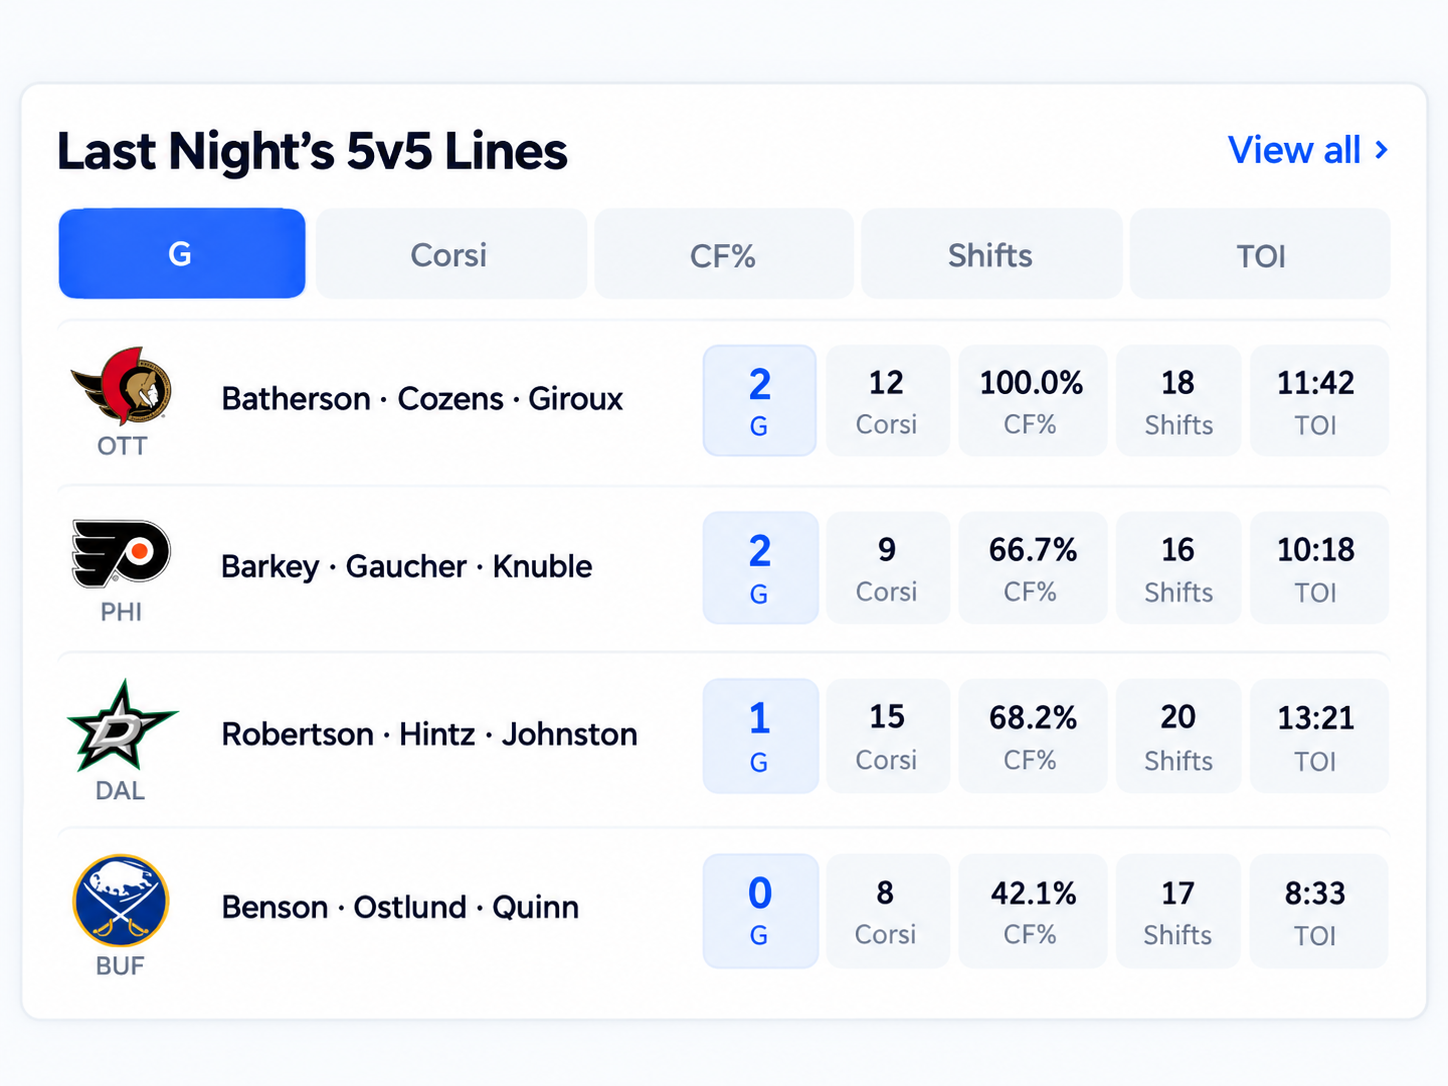
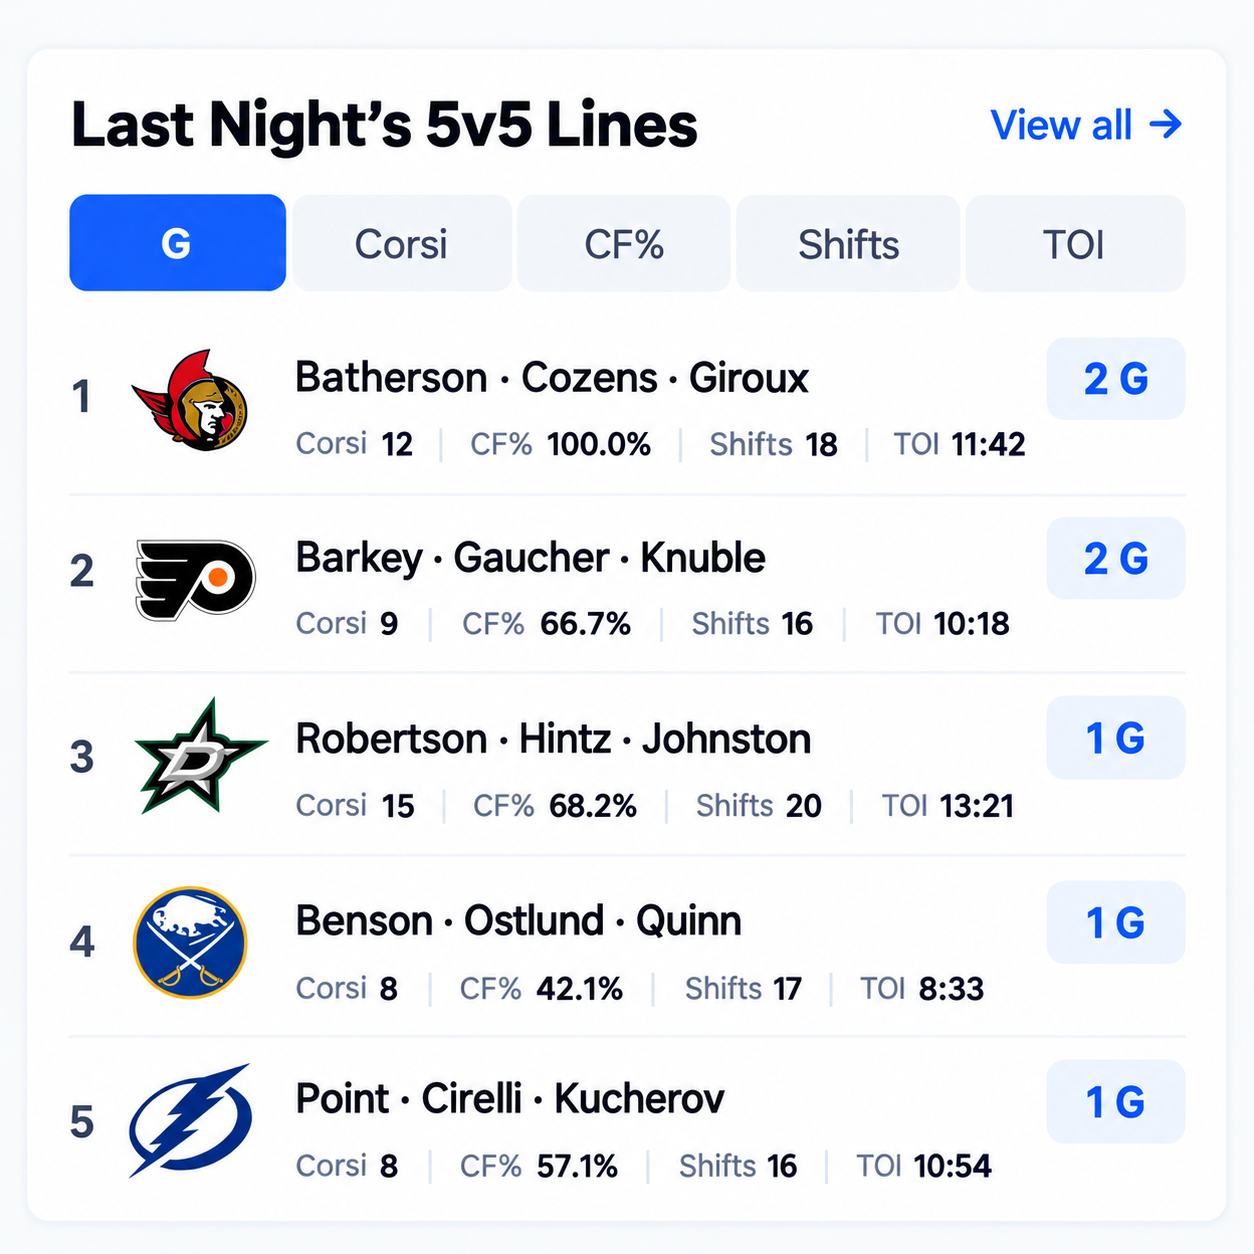
Refine Top Lines design, CF eligibility and player position ordering

diff --git a/resources/js/pages/Dashboard/Index.vue b/resources/js/pages/Dashboard/Index.vue
@@ -32,11 +32,14 @@ const lineTabs = [
     { key: 'toi_seconds', label: 'TOI', unit: 'Shared 5v5 time' },
 ];
 const lineUnit = computed(() => lineTabs.find(tab => tab.key === lineTab.value)?.unit);
+const lineLabel = computed(() => lineTabs.find(tab => tab.key === lineTab.value)?.label);
+const secondaryLineTabs = computed(() => lineTabs.filter(tab => tab.key !== lineTab.value));
 const lines = computed(() => [...(props.dashboard.line_combinations ?? [])]
     .filter(line => Number.isFinite(line[lineTab.value]))
+    .filter(line => lineTab.value !== 'cf_pct' || line.toi_seconds >= 300)
     .sort((a, b) => b[lineTab.value] - a[lineTab.value]
         || b.goal_diff - a.goal_diff || (b.cf_pct ?? -1) - (a.cf_pct ?? -1)
-        || b.toi_seconds - a.toi_seconds || a.unit_id - b.unit_id || a.game_id - b.game_id).slice(0, 4));
+        || b.toi_seconds - a.toi_seconds || a.unit_id - b.unit_id || a.game_id - b.game_id).slice(0, 5));
 const lineValue = (line, key) => !Number.isFinite(line[key]) ? '—'
     : key === 'toi_seconds' ? toi(line.toi_seconds)
         : key === 'cf_pct' ? `${decimal(line.cf_pct)}%`
@@ -255,23 +258,23 @@ function navigateTabs(event, group) {
                 </div>
             </DashboardSection>
 
-            <DashboardSection title="Last Night’s 5v5 Lines" :href="dashboard.links.line_combinations" class="[container-type:inline-size] xl:col-span-3">
+            <DashboardSection title="Last Night’s Top Lines" :href="dashboard.links.line_combinations" class="xl:col-span-3">
                 <div role="tablist" aria-label="5v5 line metric" class="mb-2 grid shrink-0 grid-cols-5 gap-1.5">
                     <button v-for="tab in lineTabs" :id="`line-tab-${tab.key}`" :key="tab.key" type="button" role="tab" :title="tab.unit" :tabindex="lineTab === tab.key ? 0 : -1" :aria-selected="lineTab === tab.key" aria-controls="line-trend-results" class="min-h-9 rounded-lg px-1 text-[11px] font-semibold transition-colors duration-150 focus-visible:outline-none focus-visible:ring-2 focus-visible:ring-blue-500 focus-visible:ring-offset-2 motion-reduce:transition-none" :class="lineTab === tab.key ? 'bg-blue-600 text-white shadow-sm' : 'bg-slate-100 text-slate-500 hover:bg-slate-200'" @click="lineTab = tab.key" @keydown="navigateTabs($event, 'line')">{{ tab.label }}</button>
                 </div>
-                <p class="mb-2 text-[10px] text-slate-400">{{ performanceDate }} · {{ lineUnit }}</p>
+                <p class="mb-2 text-[10px] text-slate-400">{{ performanceDate }} · 5v5 · {{ lineUnit }}<span v-if="lineTab === 'cf_pct'"> · Min. 5:00 TOI</span></p>
                 <div id="line-trend-results" role="tabpanel" :aria-labelledby="`line-tab-${lineTab}`" class="min-h-0 flex-1 overflow-y-auto">
-                    <a v-for="line in lines" :key="`${line.game_id}-${line.unit_id}`" :href="line.url" class="grid gap-2 rounded-lg border-t border-slate-100 px-1 py-2.5 transition-colors duration-150 hover:bg-slate-50 focus-visible:outline-none focus-visible:ring-2 focus-visible:ring-inset focus-visible:ring-blue-500 motion-reduce:transition-none [@container(min-width:600px)]:grid-cols-[minmax(0,1fr)_minmax(0,1.2fr)] [@container(min-width:600px)]:items-center">
-                        <div class="flex min-w-0 items-center gap-2.5">
-                            <div class="flex w-10 shrink-0 flex-col items-center">
-                                <img v-if="line.team_logo" :src="line.team_logo" alt="" class="h-9 w-10 object-contain" loading="lazy" />
-                                <span class="mt-0.5 text-[9px] font-medium text-slate-500">{{ line.team }}</span>
+                    <a v-for="(line, index) in lines" :key="`${line.game_id}-${line.unit_id}`" :href="line.url" class="flex items-center gap-2 border-b border-slate-100 py-3 transition-colors duration-150 last:border-b-0 hover:bg-slate-50 focus-visible:outline-none focus-visible:ring-2 focus-visible:ring-inset focus-visible:ring-blue-500 motion-reduce:transition-none">
+                        <span class="w-3 shrink-0 text-xs font-semibold tabular-nums text-slate-600">{{ index + 1 }}</span>
+                        <img v-if="line.team_logo" :src="line.team_logo" :alt="line.team" class="h-10 w-10 shrink-0 object-contain" loading="lazy" />
+                        <span v-else class="w-10 shrink-0 text-center text-[10px] font-medium text-slate-500">{{ line.team }}</span>
+                        <div class="min-w-0 flex-1">
+                            <div class="flex items-start justify-between gap-2">
+                                <h3 class="min-w-0 text-[11px] font-semibold leading-snug text-slate-950">{{ line.players.join(' · ') }}</h3>
+                                <span class="shrink-0 whitespace-nowrap rounded-lg bg-blue-50 px-2 py-1 text-xs font-bold tabular-nums text-blue-600">{{ lineValue(line, lineTab) }} {{ lineLabel }}</span>
                             </div>
-                            <h3 class="min-w-0 text-[11px] font-semibold leading-snug text-slate-950">{{ line.players.join(' · ') }}</h3>
-                        </div>
-                        <div class="grid grid-cols-5 gap-1 text-center tabular-nums">
-                            <div v-for="tab in lineTabs" :key="tab.key" class="flex min-w-0 flex-col justify-center rounded-md border px-0.5 py-1.5" :class="lineTab === tab.key ? 'border-blue-100 bg-blue-50 text-blue-600' : 'border-transparent bg-slate-100/80 text-slate-950'">
-                                <span class="text-xs font-bold leading-5">{{ lineValue(line, tab.key) }}</span>{{ ' ' }}<span class="text-[9px] leading-4" :class="lineTab === tab.key ? 'text-blue-600' : 'text-slate-500'">{{ tab.label }}</span>
+                            <div class="mt-1 flex flex-wrap gap-x-1.5 gap-y-1 text-[9px] leading-4 tabular-nums">
+                                <span v-for="tab in secondaryLineTabs" :key="tab.key" class="whitespace-nowrap border-r border-slate-200 pr-1.5 last:border-r-0 last:pr-0"><span class="text-slate-500">{{ tab.label }}</span>{{ ' ' }}<b class="font-semibold text-slate-950">{{ lineValue(line, tab.key) }}</b></span>
                             </div>
                         </div>
                     </a>

diff --git a/resources/js/pages/dashboard.test.js b/resources/js/pages/dashboard.test.js
@@ -52,7 +52,7 @@ describe('NHL dashboard', () => {
         mount(); expect(document.querySelector('[aria-label="Featured NHL stories"] img').getAttribute('src')).toBe('/story-1.jpg');
     });
     it('keeps the supporting panels from the reference design', () => {
-        mount(); for (const title of ["Last Night's Top Performers", 'Notable Signings & Moves', 'Injury Watch', 'Team Trends', 'Player Heat Check', 'Last Night’s 5v5 Lines', 'Around the NHL']) expect(section(title)).toBeTruthy();
+        mount(); for (const title of ["Last Night's Top Performers", 'Notable Signings & Moves', 'Injury Watch', 'Team Trends', 'Player Heat Check', 'Last Night’s Top Lines', 'Around the NHL']) expect(section(title)).toBeTruthy();
     });
     it('shows four top performer cards without introducing a fixed goalie slot', () => {
         mount(); expect(section("Last Night's Top Performers").querySelectorAll('a[href^="/players/"]')).toHaveLength(4);
@@ -140,9 +140,9 @@ describe('NHL dashboard', () => {
         mount(); expect(document.querySelector('main').textContent).toContain('Stories: NHL.com');
     });
     it('replaces videos with factual five-on-five line results and internal links', async () => {
-        mount(); const panel = section('Last Night’s 5v5 Lines');
+        mount(); const panel = section('Last Night’s Top Lines');
         expect(panel.textContent).toContain('Alpha · Beta · Gamma');
-        expect(panel.textContent).toContain('2–0');
+        expect(panel.textContent).toContain('2 G');
         document.querySelector('#line-tab-cf_pct').click(); await nextTick();
         expect(panel.textContent).toContain('65.0%');
         expect(panel.textContent).toContain('7:05');
@@ -152,7 +152,7 @@ describe('NHL dashboard', () => {
     });
     it('shows a truthful empty state when last nights shift data is missing', () => {
         data.line_combinations = []; mount();
-        expect(section('Last Night’s 5v5 Lines').textContent).toContain('completed shift and play-by-play data');
+        expect(section('Last Night’s Top Lines').textContent).toContain('completed shift and play-by-play data');
     });
     it('does not label the performer date as completed games', () => {
         mount(); expect(section("Last Night's Top Performers").textContent).not.toContain('Completed games');
@@ -291,7 +291,7 @@ describe('NHL dashboard', () => {
         expect(tabs.map(tab => tab.textContent)).toEqual(['G', 'Corsi', 'CF%', 'Shifts', 'TOI']);
         expect(document.querySelector('#line-tab-gf').getAttribute('aria-selected')).toBe('true');
     });
-    it('ranks every available line for each selected metric before selecting four', async () => {
+    it('ranks every available line for each selected metric before selecting five', async () => {
         data.line_combinations = Array.from({ length: 5 }, (_, index) => ({ ...data.line_combinations[0], unit_id: index + 1,
             players: [`Line ${index + 1}`], gf: 5 - index, corsi: index === 1 ? 20 : index,
             cf_pct: index === 2 ? 90 : 50, shifts: index === 3 ? 15 : 3, toi_seconds: index === 4 ? 900 : 400 }));
@@ -300,7 +300,7 @@ describe('NHL dashboard', () => {
         for (const [tab, expected] of [['corsi', 'Line 2'], ['cf_pct', 'Line 3'], ['shifts', 'Line 4'], ['toi_seconds', 'Line 5']]) {
             document.querySelector(`#line-tab-${tab}`).click(); await nextTick();
             expect(first()).toBe(expected);
-            expect(document.querySelectorAll('#line-trend-results a')).toHaveLength(4);
+            expect(document.querySelectorAll('#line-trend-results a')).toHaveLength(5);
         }
     });
     it('displays Corsi as a signed differential and CF percentage as attempt share', async () => {
@@ -321,6 +321,22 @@ describe('NHL dashboard', () => {
         document.querySelector('#line-tab-cf_pct').click(); await nextTick();
         expect(document.querySelectorAll('#line-trend-results a')).toHaveLength(0);
         expect(document.querySelector('#line-trend-results').textContent).toContain('No lines have data');
+    });
+    it('excludes brief trios from CF percentage ranking using total shared game time', async () => {
+        data.line_combinations = [
+            { ...data.line_combinations[0], unit_id: 1, players: ['Eleven seconds'], cf_pct: 100, toi_seconds: 11 },
+            { ...data.line_combinations[0], unit_id: 2, players: ['Below minimum'], cf_pct: 95, toi_seconds: 299 },
+            { ...data.line_combinations[0], unit_id: 3, players: ['Five minutes'], cf_pct: 70, toi_seconds: 300 },
+            { ...data.line_combinations[0], unit_id: 4, players: ['Established line'], cf_pct: 80, toi_seconds: 600 },
+        ];
+        mount();
+        expect(document.querySelectorAll('#line-trend-results a')).toHaveLength(4);
+        document.querySelector('#line-tab-cf_pct').click(); await nextTick();
+        expect([...document.querySelectorAll('#line-trend-results h3')].map(node => node.textContent))
+            .toEqual(['Established line', 'Five minutes']);
+        expect(section('Last Night’s Top Lines').textContent).toContain('Min. 5:00 TOI');
+        document.querySelector('#line-tab-gf').click(); await nextTick();
+        expect(document.querySelectorAll('#line-trend-results a')).toHaveLength(4);
     });
     it('supports keyboard selection and focus for all line metric tabs', async () => {
         mount(); const first = document.querySelector('#line-tab-gf'); first.focus();

diff --git a/app/Services/NhlDashboardPayload.php b/app/Services/NhlDashboardPayload.php
@@ -29,7 +29,7 @@ class NhlDashboardPayload
             $slate->subDay();
         }
         $date = $slate->toDateString();
-        $facts = Cache::remember('nhl:dashboard:facts:v5:'.$date, 300, fn (): array => $this->facts($date));
+        $facts = Cache::remember('nhl:dashboard:facts:v6:'.$date, 300, fn (): array => $this->facts($date));
         $stories = $this->news->feed();
         $articles = collect($stories['items']);
 
@@ -198,7 +198,7 @@ class NhlDashboardPayload
             ->get(['s.*', 'u.unit_type']);
         $members = DB::table('nhl_unit_players as up')->join('players as p', 'p.id', '=', 'up.player_id')
             ->whereIn('up.unit_id', $shifts->pluck('unit_id')->unique())
-            ->orderBy('p.id')->get(['up.unit_id', 'p.id', 'p.full_name', 'p.first_name', 'p.last_name'])->groupBy('unit_id');
+            ->orderBy('p.id')->get(['up.unit_id', 'p.id', 'p.full_name', 'p.first_name', 'p.last_name', 'p.position'])->groupBy('unit_id');
         $time = [];
         $countedShifts = [];
         foreach ($games as $game) {
@@ -271,12 +271,35 @@ class NhlDashboardPayload
             $side = $game->home_team_abbrev === $row['team'] ? 'home' : 'away';
             return [...$row, 'goal_diff' => $row['gf'] - $row['ga'], 'corsi' => $row['cf'] - $row['ca'],
                 'cf_pct' => $row['cf'] + $row['ca'] > 0 ? $row['cf'] / ($row['cf'] + $row['ca']) * 100 : null,
-                'players' => $members[$row['unit_id']]->map(fn (object $player): string => $player->full_name ?: trim($player->first_name.' '.$player->last_name))->all(),
+                'players' => $this->orderedLinePlayers($members[$row['unit_id']]),
                 'team_logo' => $game->{$side.'_team_logo'},
                 'url' => route('stats.units.index', ['nhl_game_id' => $row['game_id'], 'team' => $row['team'],
                     'season_id' => $game->season_id, 'game_type' => $game->game_type, 'pos' => ['F'], 'sum' => 0])];
         })->sortBy([['goal_diff', 'desc'], ['cf_pct', 'desc'], ['toi_seconds', 'desc'], ['unit_id', 'asc']])
             ->values()->all();
+    }
+
+    /** Arrange a trio as LW, C, RW using listed eligibility, with stable ties for uncertain roles. */
+    private function orderedLinePlayers(Collection $members): array
+    {
+        $players = $members->values()->all();
+        $best = [0, 1, 2];
+        $bestScore = -1;
+        foreach ([[0, 1, 2], [0, 2, 1], [1, 0, 2], [1, 2, 0], [2, 0, 1], [2, 1, 0]] as $order) {
+            $score = 0;
+            foreach ($order as $slot => $index) {
+                $positions = preg_split('/[^A-Z]+/', strtoupper((string) $players[$index]->position), -1, PREG_SPLIT_NO_EMPTY);
+                $eligible = [['L', 'LW'], ['C'], ['R', 'RW']][$slot];
+                $score += count(array_intersect($positions, $eligible)) > 0 ? 1 : 0;
+            }
+            if ($score > $bestScore) {
+                $best = $order;
+                $bestScore = $score;
+            }
+        }
+
+        return array_map(fn (int $index): string => $players[$index]->full_name
+            ?: trim($players[$index]->first_name.' '.$players[$index]->last_name), $best);
     }
 
     /** Compare ten-game windows with twenty results available, otherwise five-game windows. */

diff --git a/tests/Feature/NhlDashboardTest.php b/tests/Feature/NhlDashboardTest.php
@@ -282,7 +282,7 @@ it('selects team comparison windows from available finished games', function (in
 ]);
 
 
-it('reads strictly five-on-five trios from the completed night', function (int $defenders, int $goalies, int $goalieEnd, int $expectedCount): void {
+it('reads strictly five-on-five trios from the completed night', function (int $defenders, int $goalies, int $goalieEnd, int $expectedCount, array $positions = ['R', 'C', 'L'], array $expectedNames = ['TOR F2', 'TOR F1', 'TOR F0']): void {
     ($this->game)();
     $forwardShifts = [];
     foreach (['TOR' => 10, 'BOS' => 6] as $team => $teamId) {
@@ -292,7 +292,8 @@ it('reads strictly five-on-five trios from the completed night', function (int $
             }
             $unit = DB::table('nhl_units')->insertGetId(['team_abbrev' => $team, 'unit_type' => $type]);
             for ($i = 0; $i < $count; $i++) {
-                $player = Player::create(['full_name' => $team.' '.$type.$i, 'first_name' => $team, 'last_name' => $type.$i]);
+                $player = Player::create(['full_name' => $team.' '.$type.$i, 'first_name' => $team, 'last_name' => $type.$i,
+                    'position' => $type === 'F' ? $positions[$i] : $type]);
                 DB::table('nhl_unit_players')->insert(['unit_id' => $unit, 'player_id' => $player->id]);
             }
             $end = $type === 'G' ? $goalieEnd : 360;
@@ -319,6 +320,7 @@ it('reads strictly five-on-five trios from the completed night', function (int $
     expect($rows)->toHaveCount($expectedCount);
     if ($expectedCount > 0) {
         expect($rows[0]['team'])->toBe('TOR')->and($rows[0]['players'])->toHaveCount(3)
+            ->and($rows[0]['players'])->toBe($expectedNames)
             ->and($rows[0]['toi_seconds'])->toBe($goalieEnd)->and($rows[0]['gf'])->toBe(1)
             ->and($rows[0]['ga'])->toBe(0)->and($rows[0]['cf'])->toBe(2)
             ->and($rows[0]['corsi'])->toBe(2)->and($rows[0]['shifts'])->toBe(1)
@@ -328,6 +330,8 @@ it('reads strictly five-on-five trios from the completed night', function (int $
     }
 })->with([
     'full five on five' => [2, 1, 360, 2],
+    'ambiguous roles retain stable identity order' => [2, 1, 360, 2, ['', '', ''], ['TOR F0', 'TOR F1', 'TOR F2']],
+    'multi-position eligibility maximizes matching slots' => [2, 1, 360, 2, ['C/R', 'LW', 'C'], ['TOR F1', 'TOR F2', 'TOR F0']],
     'only time with both goalies counts' => [2, 1, 300, 2],
     'four on four is excluded' => [1, 1, 360, 0],
     'empty nets are excluded' => [2, 0, 360, 0],

diff --git a/docs/UI_DESIGN.md b/docs/UI_DESIGN.md
@@ -10,10 +10,11 @@ brand in the reference. Responsive layouts retain the same content and existing
 mobile navigation. Behavior and data ownership are defined in
 `docs/architecture/ui/NhlDashboard.yaml`.
 
-The homepage Last Night’s 5v5 Lines section follows
+The homepage Last Night’s Top Lines section follows
 `docs/designs/5v5-lineups-design.png`: solid blue selected tabs, team logos and
-trio names, and five stat tiles with the selected metric highlighted. Retain its
-dashboard position; narrow panels place the stat tiles beneath the trio identity.
+trio names in ranked rows, a blue selected-metric badge and inline secondary
+statistics separated by subtle dividers. Retain its dashboard position and wrap
+secondary statistics within narrow panels.
 
 The default desktop dashboard overview should fit above the fold, with a compact
 performers/signings/injuries row. Shorter viewports may scroll panel contents;
